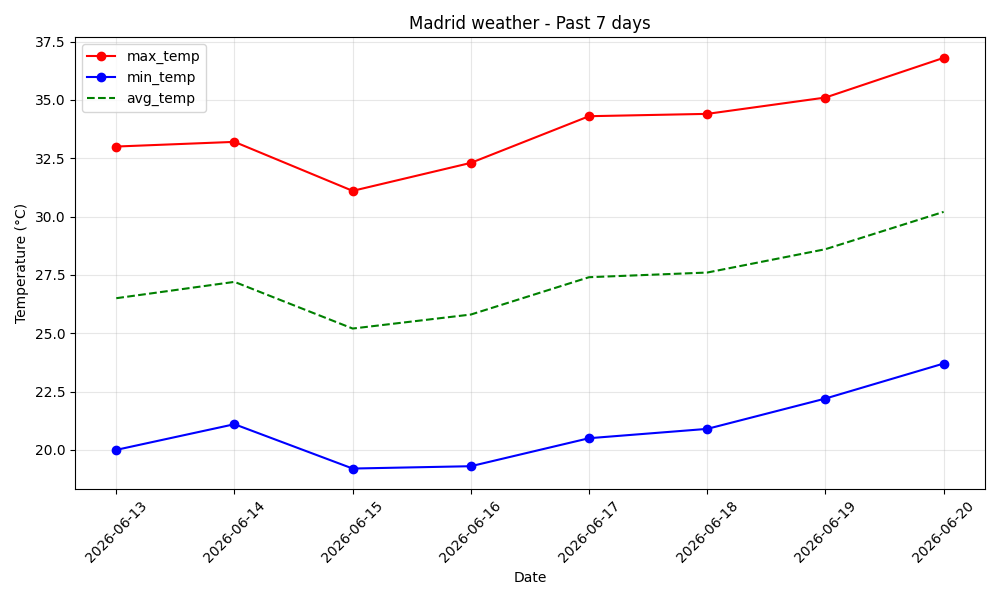
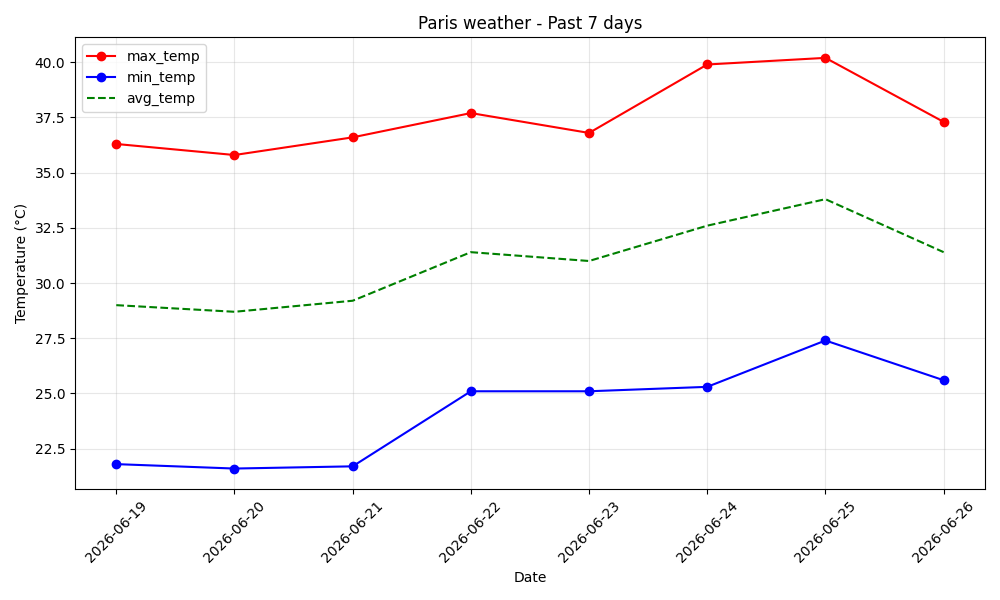
colon

diff --git a/weather.py b/weather.py
@@ -18,7 +18,7 @@ while not test:
     town_data = response.json()
     test = "results" in town_data
     if not test:
-        print("Error: Please enter an existing location:")
+        print("Error: Please enter an existing location")
 
 n = len(town_data["results"])
 choices = ""